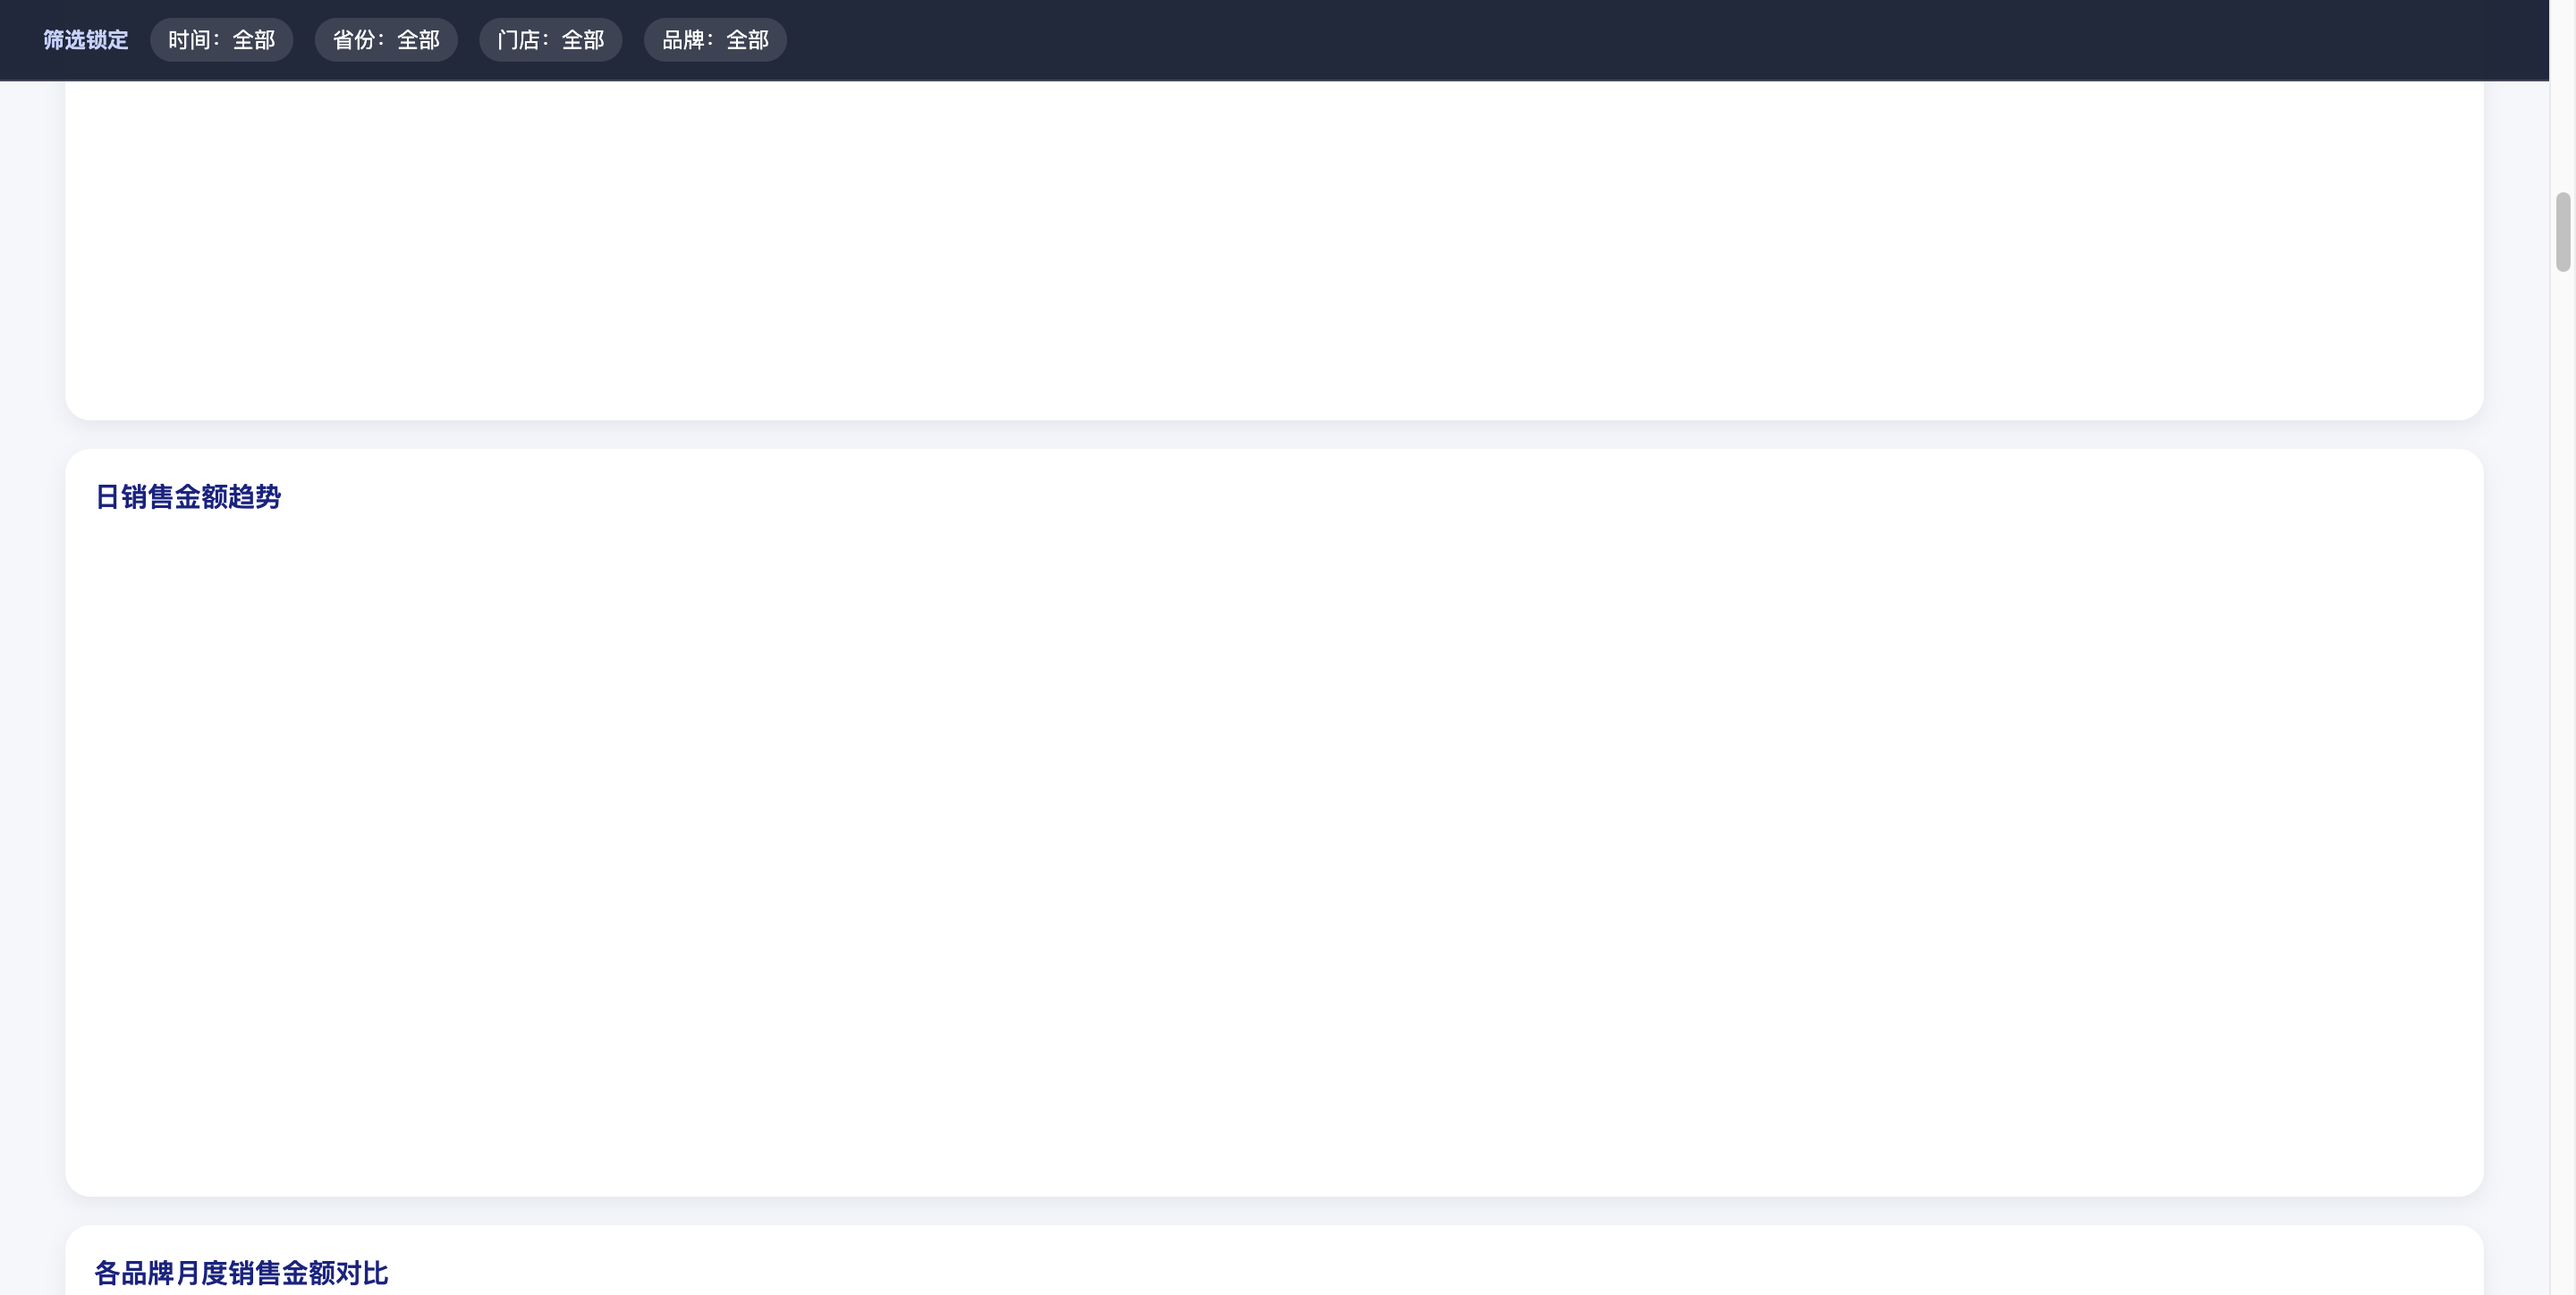
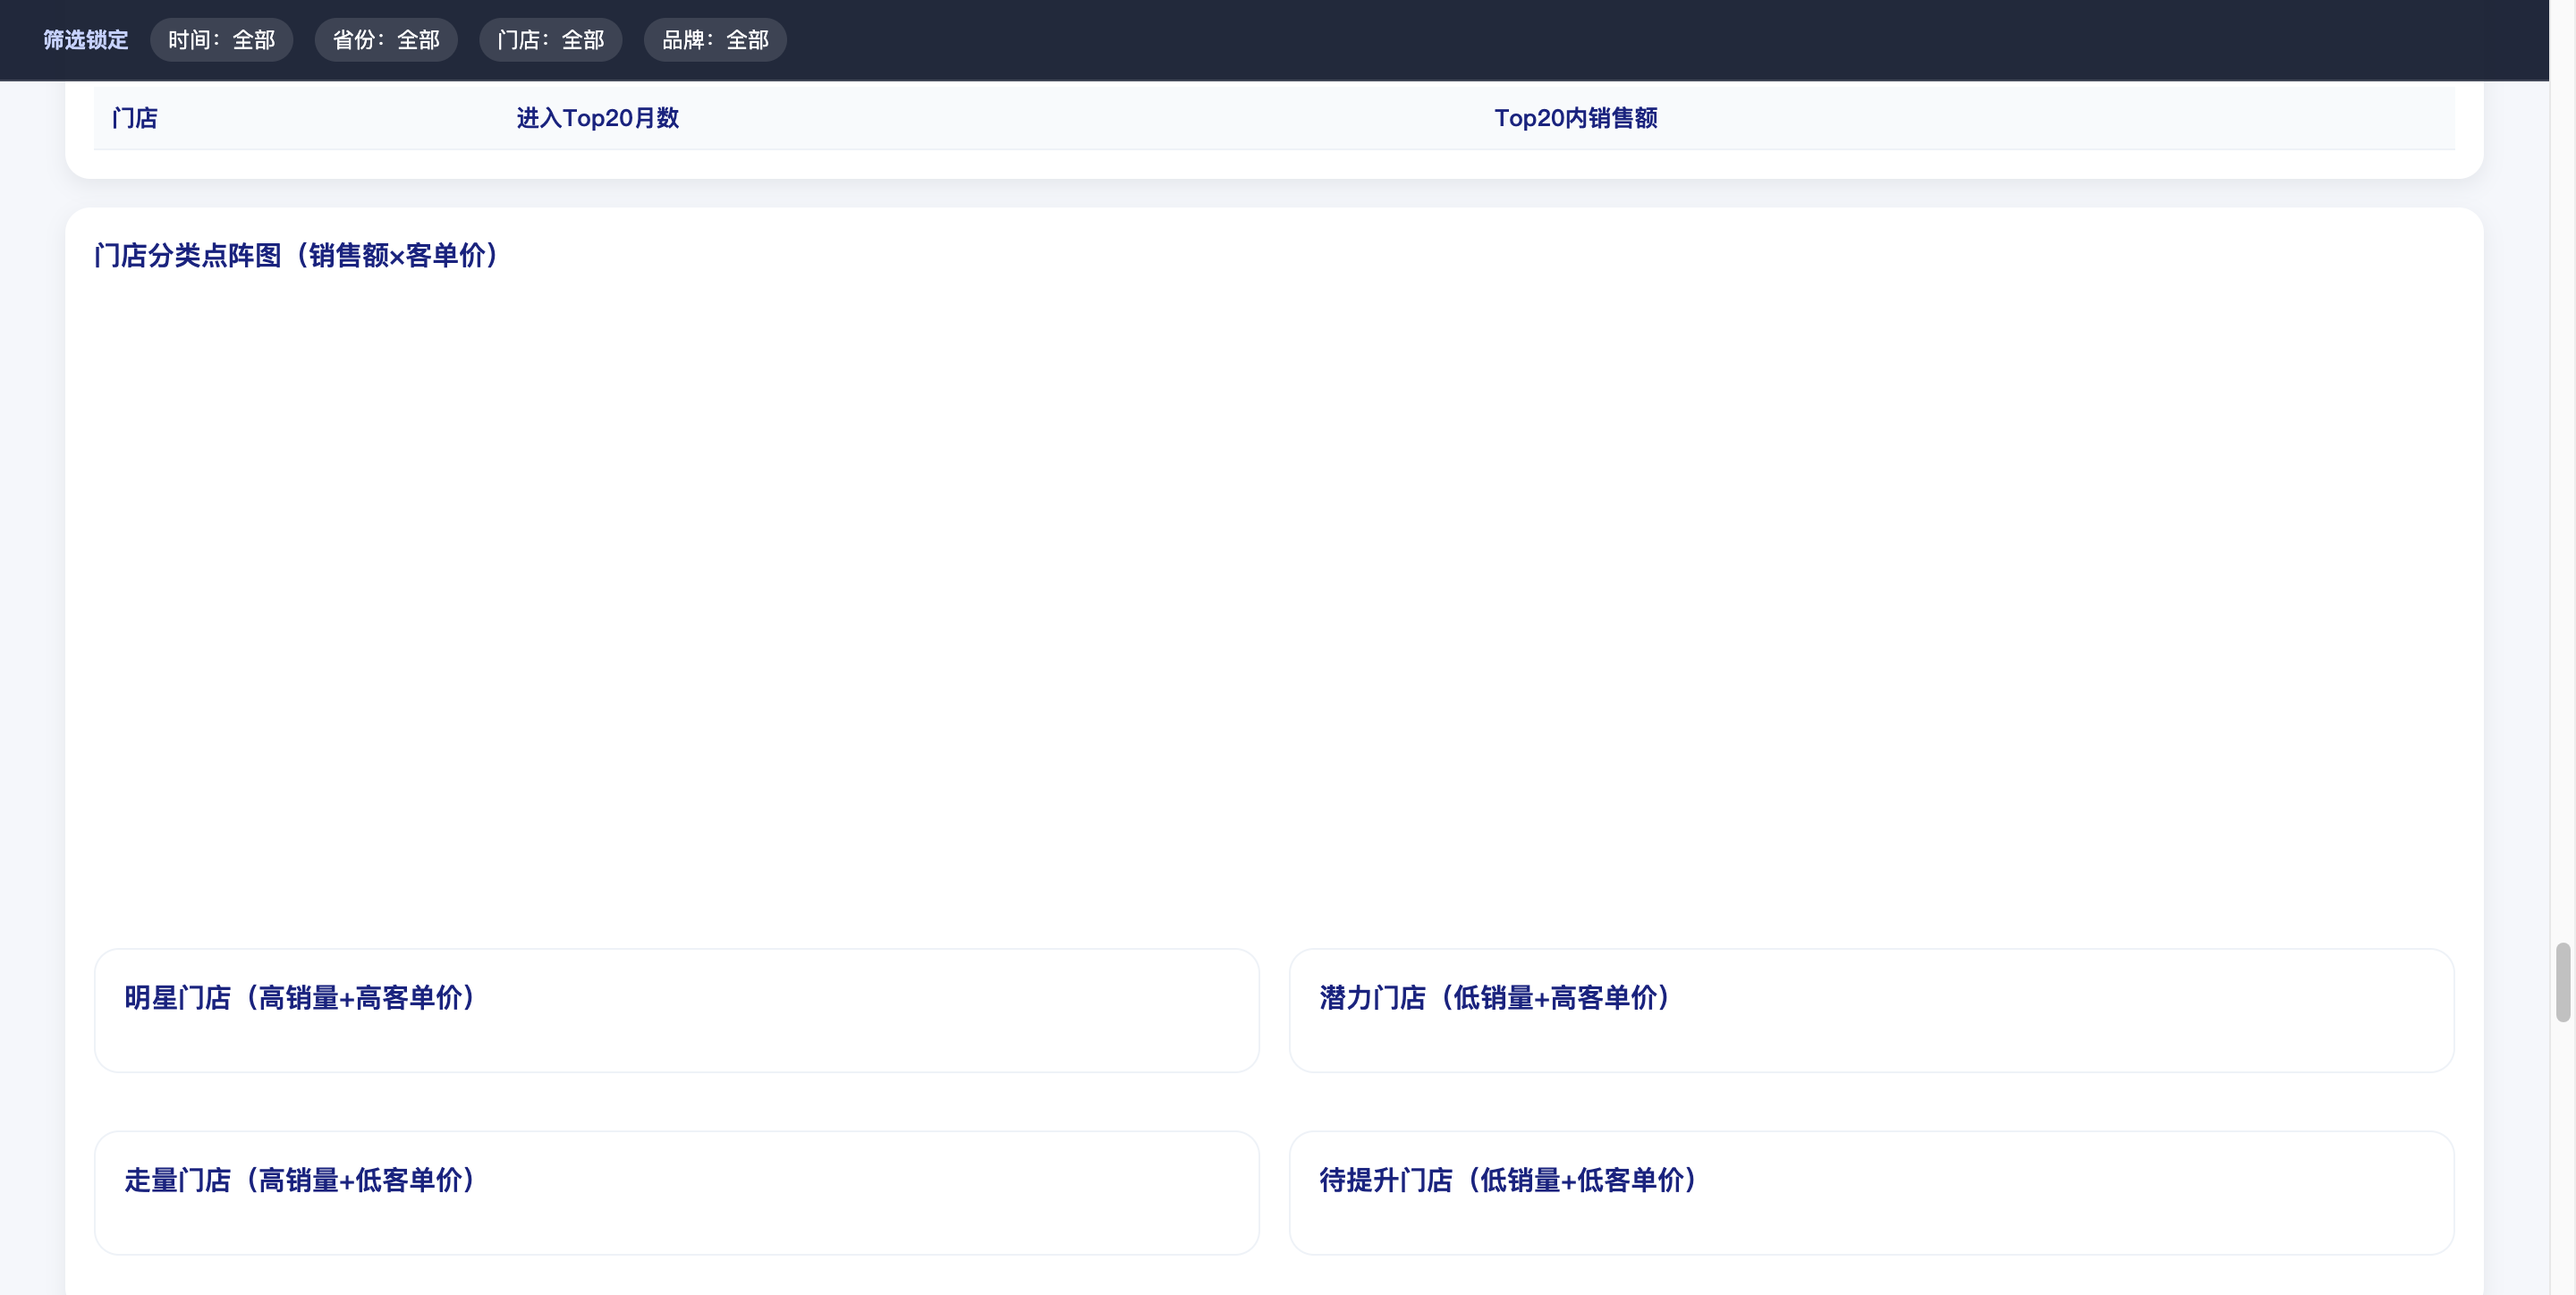
docs: update report segmentation preview

diff --git a/README.md b/README.md
@@ -30,7 +30,7 @@ The screenshots below are generated from the sanitized public template.
 
 ![Report Overview](docs/images/report-overview.png)
 
-### Detail View
+### Store Segmentation
 
 ![Report Detail](docs/images/report-detail.png)
 
